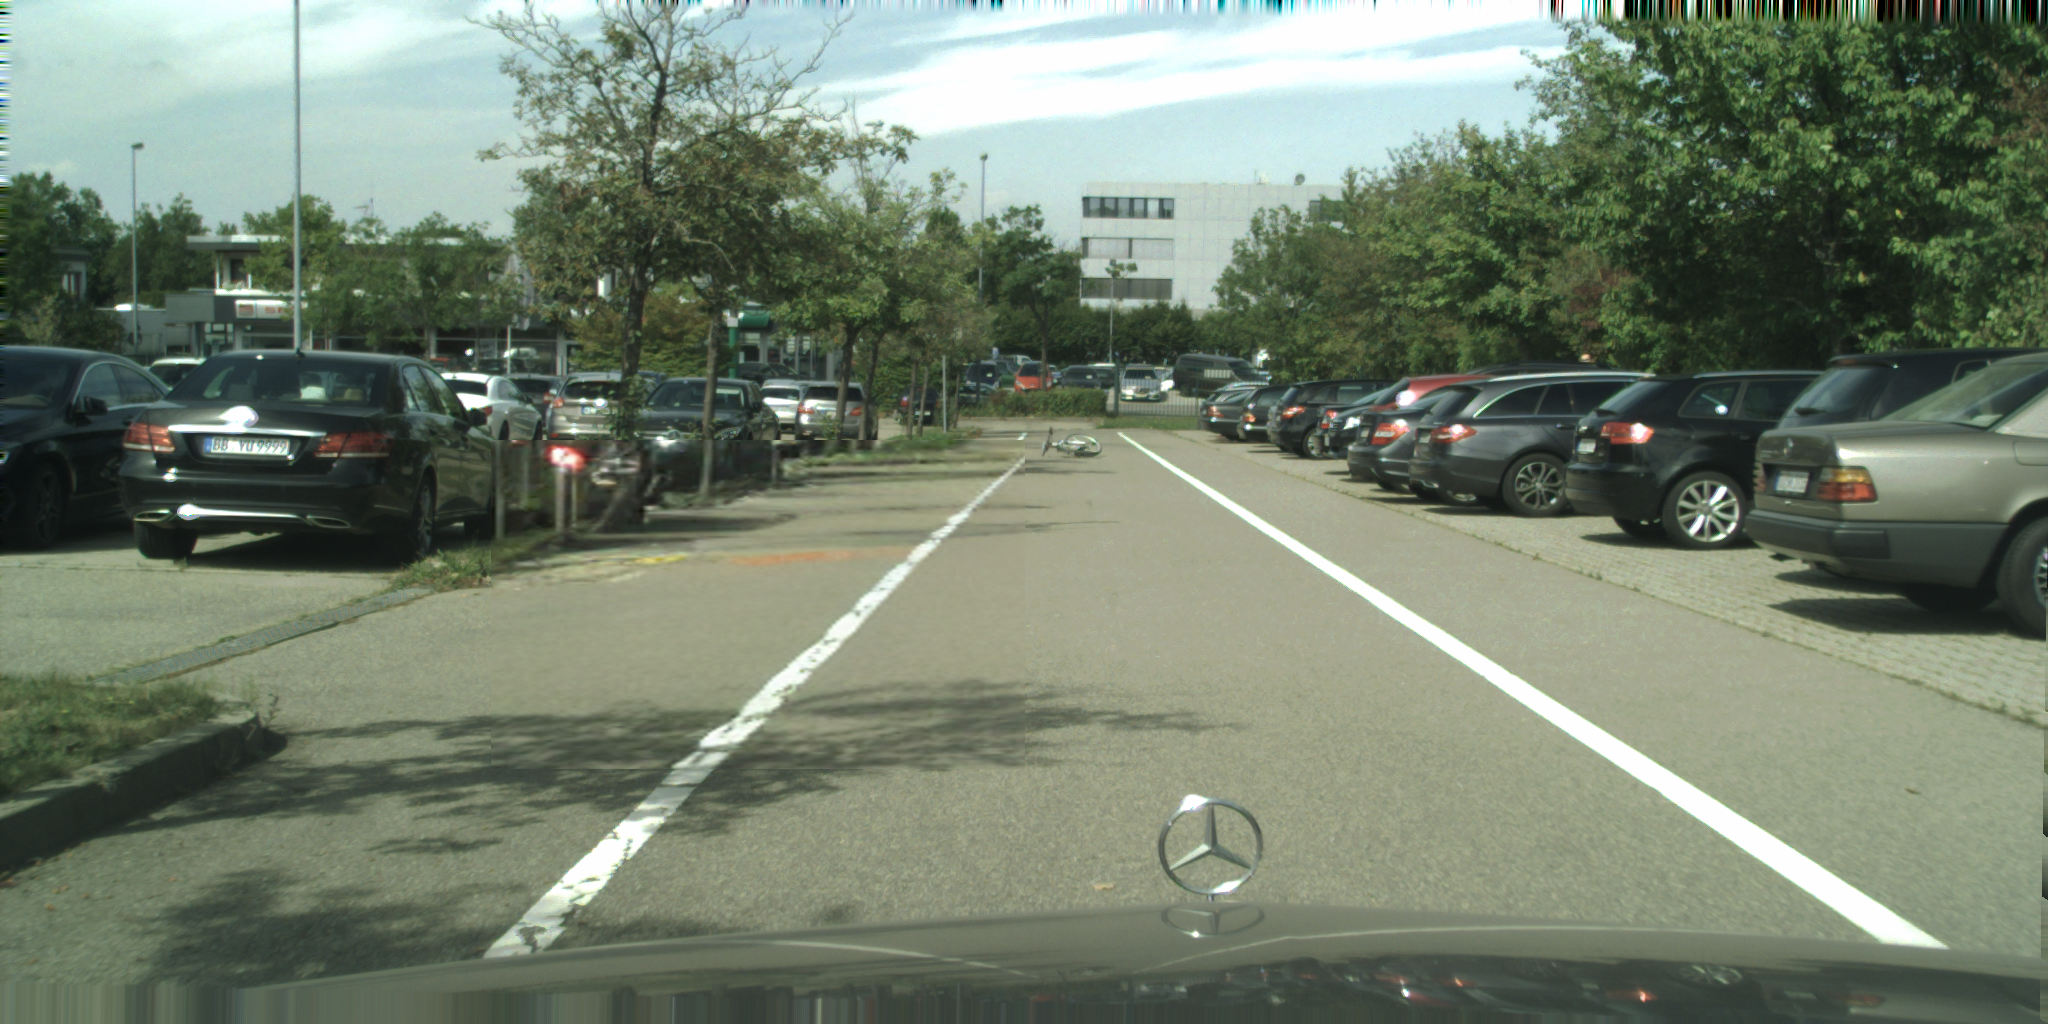
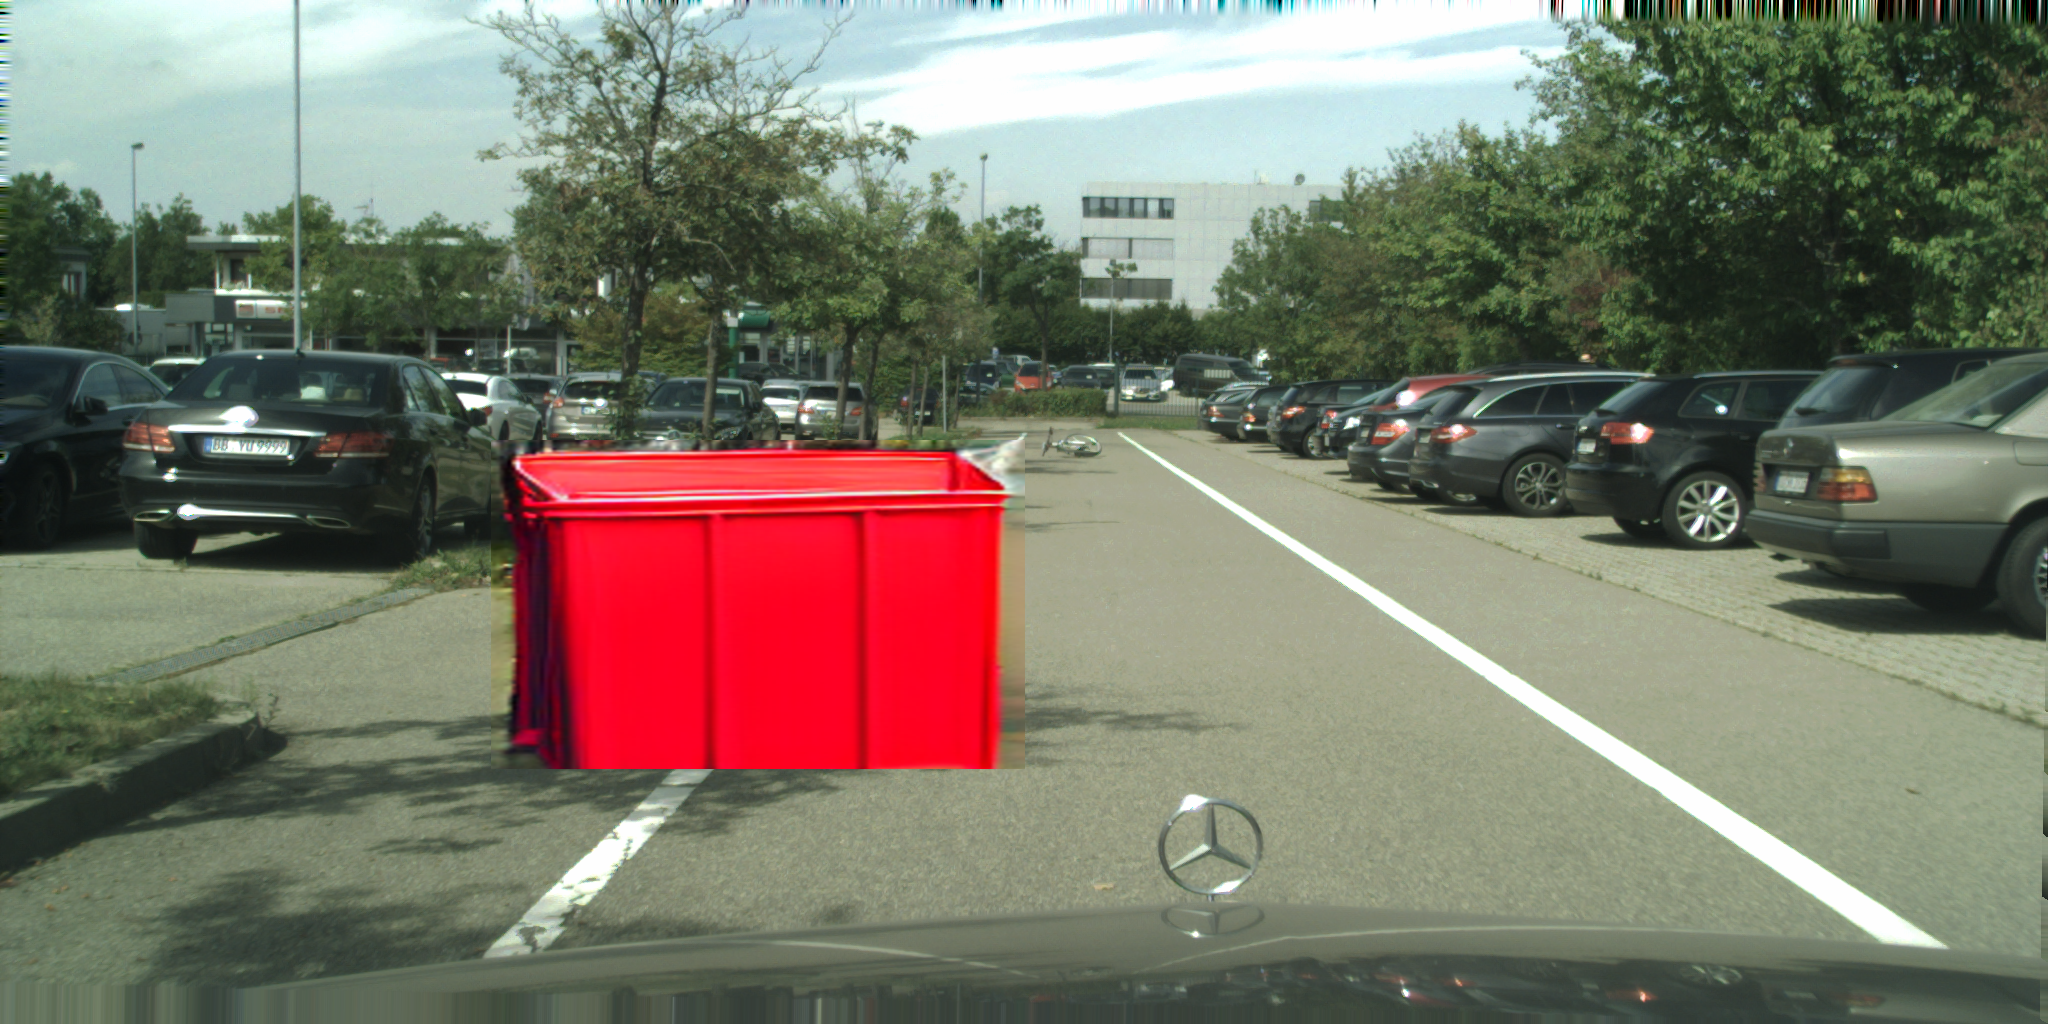
Revise model: CompVis/stable-diffusion-v1-4

Changed region(s): [[0.2188, 0.4062, 0.5, 0.75]]

diff --git a/src/data_generation/generator.py b/src/data_generation/generator.py
@@ -23,7 +23,7 @@ class HazardGenerator:
 
         # 2. Load Stable Diffusion Inpainting (Base Model)
         self.pipe = StableDiffusionControlNetInpaintPipeline.from_pretrained(
-            "runwayml/stable-diffusion-inpainting", 
+            "CompVis/stable-diffusion-v1-4", 
             controlnet=controlnet, 
             torch_dtype=torch.float16,
             safety_checker=None,
@@ -133,7 +133,7 @@ class HazardGenerator:
                 control_image=depth_resized,
                 num_inference_steps=30,
                 strength=1.0, # Full inpainting strength
-                guidance_scale=10.0, # Increased for better prompt adherence (The final tuning fix)
+                guidance_scale=20.0, # Increased for better prompt adherence (The final tuning fix)
                 controlnet_conditioning_scale=0.1 # Low influence allows for new 3D objects
             ).images[0]
 
